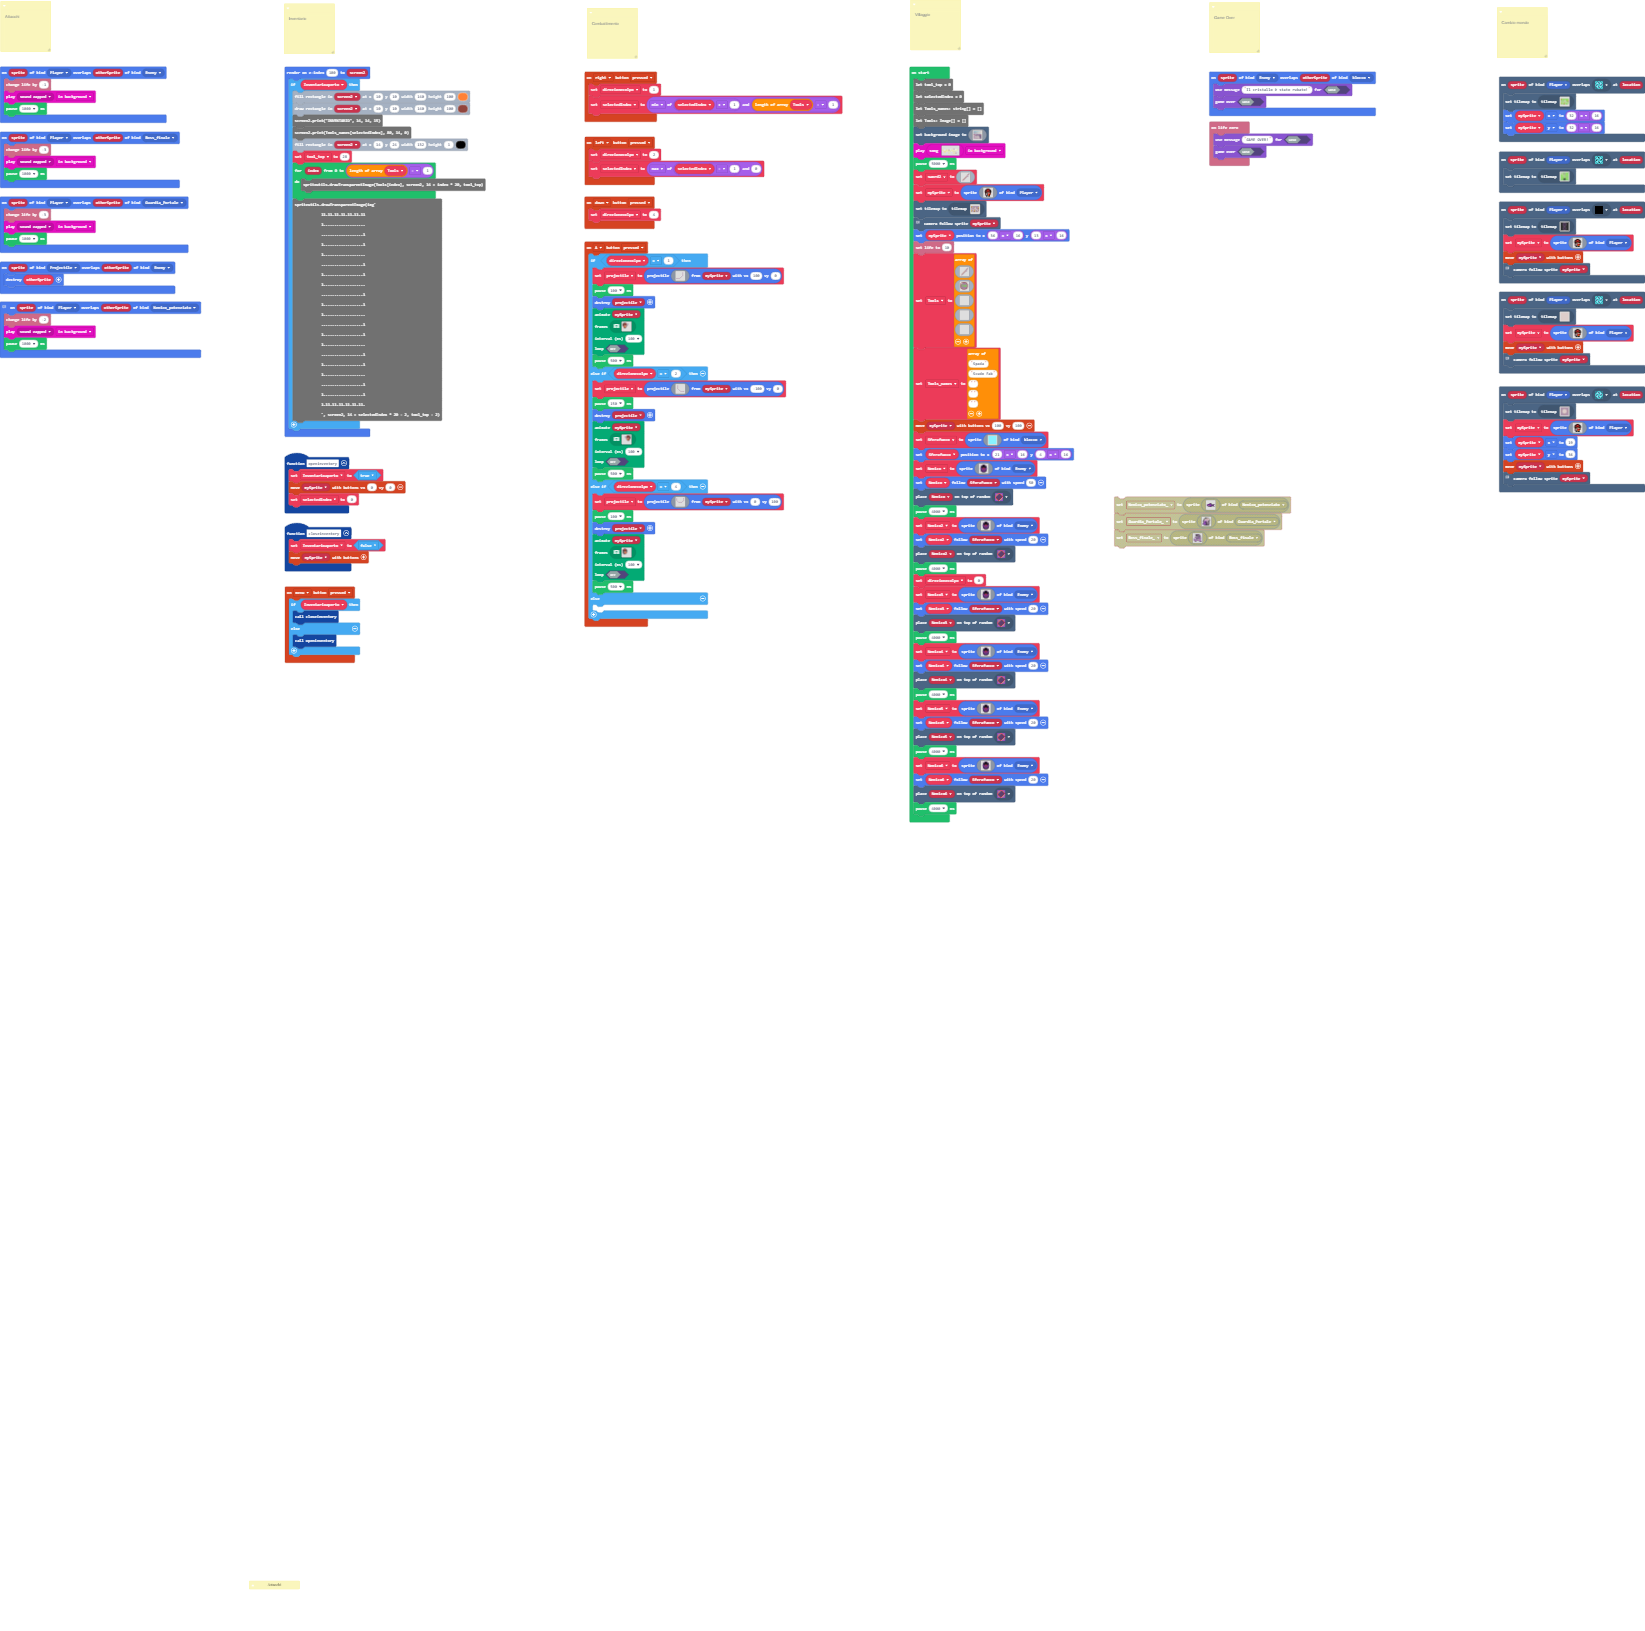
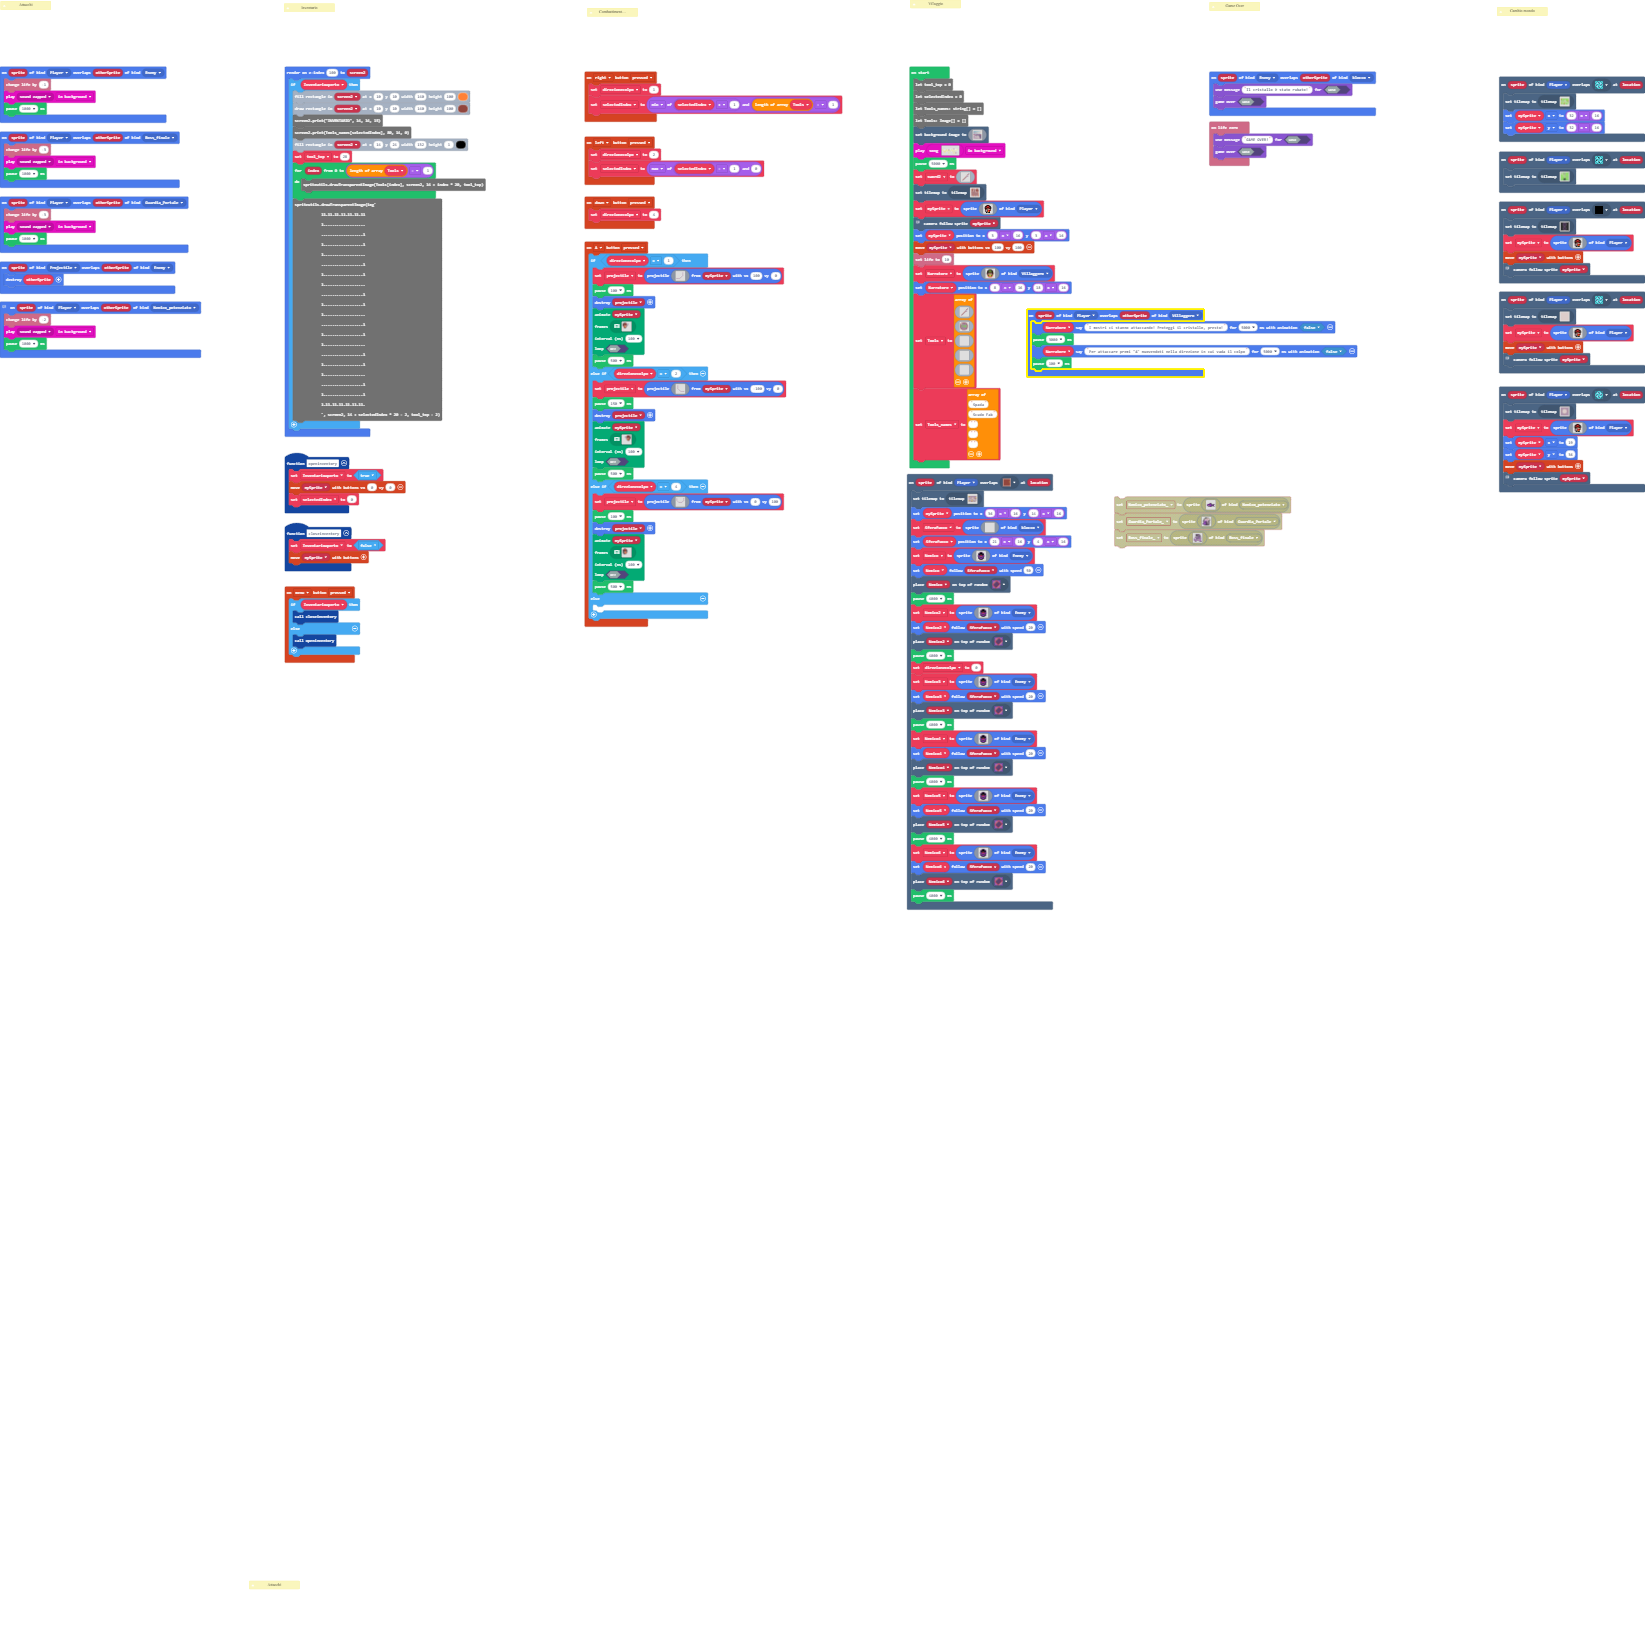
casa iniziale

diff --git a/tilemap.g.ts b/tilemap.g.ts
@@ -82,6 +82,24 @@ namespace myTiles {
     export const tile39 = image.ofBuffer(hex``);
     //% fixedInstance jres blockIdentity=images._tile
     export const tile40 = image.ofBuffer(hex``);
+    //% fixedInstance jres blockIdentity=images._tile
+    export const tile41 = image.ofBuffer(hex``);
+    //% fixedInstance jres blockIdentity=images._tile
+    export const tile42 = image.ofBuffer(hex``);
+    //% fixedInstance jres blockIdentity=images._tile
+    export const tile43 = image.ofBuffer(hex``);
+    //% fixedInstance jres blockIdentity=images._tile
+    export const tile44 = image.ofBuffer(hex``);
+    //% fixedInstance jres blockIdentity=images._tile
+    export const tile45 = image.ofBuffer(hex``);
+    //% fixedInstance jres blockIdentity=images._tile
+    export const tile46 = image.ofBuffer(hex``);
+    //% fixedInstance jres blockIdentity=images._tile
+    export const tile47 = image.ofBuffer(hex``);
+    //% fixedInstance jres blockIdentity=images._tile
+    export const tile48 = image.ofBuffer(hex``);
+    //% fixedInstance jres blockIdentity=images._tile
+    export const tile49 = image.ofBuffer(hex``);
 
     helpers._registerFactory("tilemap", function(name: string) {
         switch(helpers.stringTrim(name)) {
@@ -428,39 +446,6 @@ namespace myTiles {
 ..................2..2..................
 ..................2..2..................
 `, [myTiles.transparency16,sprites.vehicle.roadVertical,sprites.vehicle.roadHorizontal,sprites.dungeon.floorLight2,myTiles.tile35,myTiles.tile22,sprites.dungeon.floorMixed], TileScale.Sixteen);
-            case "level11":
[1 lines of base64/hex data omitted]
-........................................
-........................................
-........................................
-........................................
-........................................
-........................................
-........................................
-........................................
-........................................
-........................................
-........................................
-........................................
-........................................
-........................................
-........................................
-........................................
-........................................
-........................................
-........................................
-........................................
-........................................
-........................................
-........................................
-........................................
-........................................
-........................................
-........................................
-........................................
-........................................
-........................................
-`, [myTiles.transparency16], TileScale.Sixteen);
             case "Villaggio distrutto":
[1 lines of base64/hex data omitted]
 ........................................
@@ -570,6 +555,48 @@ namespace myTiles {
 . . . . . . . . . . . . . . . . 
 . . . . . . . . . . . . . . . . 
 `, [myTiles.transparency16], TileScale.Sixteen);
+            case "level18":
+            case "level18":return tiles.createTilemap(hex`1000100000000000000000000000000000000000000000000000000000000000000000000000000000000000000000000000000000000000000000000000000000000000000000000000000000000000000000000000000000000000000000000000000000000000000000000000000000000000000000000000000000000000000000000000000000000000000000000000000000000000000000000000000000000000000000000000000000000000000000000000000000000000000000000000000000000000000000000000000000000000000000000000000000000000000000000000000000000000000000000000000000000000000000000000000000000000`, img`
+. . . . . . . . . . . . . . . . 
+. . . . . . . . . . . . . . . . 
+. . . . . . . . . . . . . . . . 
+. . . . . . . . . . . . . . . . 
+. . . . . . . . . . . . . . . . 
+. . . . . . . . . . . . . . . . 
+. . . . . . . . . . . . . . . . 
+. . . . . . . . . . . . . . . . 
+. . . . . . . . . . . . . . . . 
+. . . . . . . . . . . . . . . . 
+. . . . . . . . . . . . . . . . 
+. . . . . . . . . . . . . . . . 
+. . . . . . . . . . . . . . . . 
+. . . . . . . . . . . . . . . . 
+. . . . . . . . . . . . . . . . 
+. . . . . . . . . . . . . . . . 
+`, [myTiles.transparency16], TileScale.Sixteen);
+            case "casa iniziale":
[1 lines of base64/hex data omitted]
+22222222222222222222
+22....2....2.......2
+22.........2......22
+2.....2....2......22
+2.....2............2
+2.....2....2.......2
+222.222....2.......2
+2..........2.......2
+2..........2222.2222
+2..................2
+2..................2
+2..................2
+2..................2
+2..................2
+2..................2
+2..................2
+2..................2
+2..................2
+2..................2
+2222222222.222222222
+`, [myTiles.transparency16,myTiles.tile36,myTiles.tile41,myTiles.tile42,sprites.builtin.brick,myTiles.tile14,myTiles.tile25,myTiles.tile43,myTiles.tile44,myTiles.tile45,myTiles.tile48,myTiles.tile49], TileScale.Sixteen);
         }
         return null;
     })
@@ -657,6 +684,24 @@ namespace myTiles {
             case "tile39":return tile39;
             case "myTile31":
             case "tile40":return tile40;
+            case "letto 1":
+            case "tile41":return tile41;
+            case "letto 2":
+            case "tile42":return tile42;
+            case "pavimento":
+            case "tile43":return tile43;
+            case "myTile33":
+            case "tile44":return tile44;
+            case "letto blu 1":
+            case "tile45":return tile45;
+            case "letto blu 2":
+            case "tile46":return tile46;
+            case "letto blu sopra":
+            case "tile47":return tile47;
+            case "myTile32":
+            case "tile48":return tile48;
+            case "myTile34":
+            case "tile49":return tile49;
         }
         return null;
     })

diff --git a/main.ts b/main.ts
@@ -3,6 +3,7 @@ namespace SpriteKind {
     export const Guardia_Portale = SpriteKind.create()
     export const Boss_finale = SpriteKind.create()
     export const blocco = SpriteKind.create()
+    export const Villaggero = SpriteKind.create()
 }
 /**
  * Attacchi
@@ -495,6 +496,12 @@ controller.A.onEvent(ControllerButtonEvent.Pressed, function () {
     	
     }
 })
+sprites.onOverlap(SpriteKind.Player, SpriteKind.Villaggero, function (sprite, otherSprite) {
+    Narratore.sayText("I mostri ci stanno attaccando! Proteggi il cristallo, presto!", 5000, false)
+    pause(3000)
+    Narratore.sayText("Per attaccare premi \"A\" muovendoti nella direzione in cui vada il colpo", 5000, false)
+    pause(100)
+})
 function closeinventory () {
     Inventarioaperto = false
     controller.moveSprite(mySprite)
@@ -516,6 +523,37 @@ sprites.onOverlap(SpriteKind.Player, SpriteKind.Guardia_Portale, function (sprit
     info.changeLifeBy(-3)
     music.play(music.melodyPlayable(music.zapped), music.PlaybackMode.InBackground)
     pause(1000)
+})
+scene.onOverlapTile(SpriteKind.Player, assets.tile`Porta casa`, function (sprite, location) {
+    tiles.setCurrentTilemap(tilemap`Villaggio distrutto`)
+    mySprite.setPosition(36 * 16, 14 * 16)
+    Sferafuoco = sprites.create(assets.image`sferapernemico`, SpriteKind.blocco)
+    Sferafuoco.setPosition(21 * 16, 4 * 16)
+    Nemico = sprites.create(assets.image`Nemico base`, SpriteKind.Enemy)
+    Nemico.follow(Sferafuoco, 50)
+    tiles.placeOnRandomTile(Nemico, assets.tile`Spawner nemici normali`)
+    pause(4000)
+    Nemico2 = sprites.create(assets.image`Nemico base`, SpriteKind.Enemy)
+    Nemico2.follow(Sferafuoco, 20)
+    tiles.placeOnRandomTile(Nemico2, assets.tile`Spawner nemici normali`)
+    pause(4000)
+    direzionecolpo = 0
+    Nemico3 = sprites.create(assets.image`Nemico base`, SpriteKind.Enemy)
+    Nemico3.follow(Sferafuoco, 20)
+    tiles.placeOnRandomTile(Nemico3, assets.tile`Spawner nemici normali`)
+    pause(4000)
+    Nemico4 = sprites.create(assets.image`Nemico base`, SpriteKind.Enemy)
+    Nemico4.follow(Sferafuoco, 20)
+    tiles.placeOnRandomTile(Nemico4, assets.tile`Spawner nemici normali`)
+    pause(4000)
+    Nemico5 = sprites.create(assets.image`Nemico base`, SpriteKind.Enemy)
+    Nemico5.follow(Sferafuoco, 20)
+    tiles.placeOnRandomTile(Nemico5, assets.tile`Spawner nemici normali`)
+    pause(4000)
+    Nemico6 = sprites.create(assets.image`Nemico base`, SpriteKind.Enemy)
+    Nemico6.follow(Sferafuoco, 20)
+    tiles.placeOnRandomTile(Nemico6, assets.tile`Spawner nemici normali`)
+    pause(4000)
 })
 scene.onOverlapTile(SpriteKind.Player, assets.tile`tel mappa centrale`, function (sprite, location) {
     tiles.setCurrentTilemap(tilemap`level2`)
@@ -632,9 +670,17 @@ sprites.onOverlap(SpriteKind.Player, SpriteKind.Enemy, function (sprite, otherSp
     music.play(music.melodyPlayable(music.zapped), music.PlaybackMode.InBackground)
     pause(1000)
 })
+let Nemico6: Sprite = null
+let Nemico5: Sprite = null
+let Nemico4: Sprite = null
+let Nemico3: Sprite = null
+let Nemico2: Sprite = null
+let Nemico: Sprite = null
+let Sferafuoco: Sprite = null
 let Inventarioaperto = false
 let projectile: Sprite = null
 let direzionecolpo = 0
+let Narratore: Sprite = null
 let mySprite: Sprite = null
 let tool_top = 0
 let selectedIndex = 0
@@ -848,6 +894,7 @@ let sword2 = img`
     . d b b . . . . . . . . . . . . 
     . d d . . . . . . . . . . . . . 
     `
+tiles.setCurrentTilemap(tilemap`casa iniziale`)
 mySprite = sprites.create(img`
     . . . . . . f f f f . . . . . . 
     . . . . f f f 2 2 f f f . . . . 
@@ -866,12 +913,14 @@ mySprite = sprites.create(img`
     . . . . f f f f f f f f . . . . 
     . . . . f f . . . f f f . . . . 
     `, SpriteKind.Player)
-tiles.setCurrentTilemap(tilemap`Villaggio distrutto`)
 // scene.setBackgroundImage()
 // spriteutils.moveTo(mySprite, spriteutils.pos(32 * 16, 32 * 16), 100, true)
 scene.cameraFollowSprite(mySprite)
-mySprite.setPosition(36 * 16, 13 * 16)
+mySprite.setPosition(3 * 16, 3 * 16)
+controller.moveSprite(mySprite, 100, 100)
 info.setLife(10)
+Narratore = sprites.create(assets.image`narratore`, SpriteKind.Villaggero)
+Narratore.setPosition(8 * 16, 18 * 16)
 Tools = [
 img`
     . . . . . . . . . . . . . . . . 
@@ -954,31 +1003,3 @@ Tools_names = [
 "",
 ""
 ]
-controller.moveSprite(mySprite, 100, 100)
-let Sferafuoco = sprites.create(assets.image`sferapernemico`, SpriteKind.blocco)
-Sferafuoco.setPosition(21 * 16, 4 * 16)
-let Nemico = sprites.create(assets.image`Nemico base`, SpriteKind.Enemy)
-Nemico.follow(Sferafuoco, 50)
-tiles.placeOnRandomTile(Nemico, assets.tile`Spawner nemici normali`)
-pause(4000)
-let Nemico2 = sprites.create(assets.image`Nemico base`, SpriteKind.Enemy)
-Nemico2.follow(Sferafuoco, 20)
-tiles.placeOnRandomTile(Nemico2, assets.tile`Spawner nemici normali`)
-pause(4000)
-direzionecolpo = 0
-let Nemico3 = sprites.create(assets.image`Nemico base`, SpriteKind.Enemy)
-Nemico3.follow(Sferafuoco, 20)
-tiles.placeOnRandomTile(Nemico3, assets.tile`Spawner nemici normali`)
-pause(4000)
-let Nemico4 = sprites.create(assets.image`Nemico base`, SpriteKind.Enemy)
-Nemico4.follow(Sferafuoco, 20)
-tiles.placeOnRandomTile(Nemico4, assets.tile`Spawner nemici normali`)
-pause(4000)
-let Nemico5 = sprites.create(assets.image`Nemico base`, SpriteKind.Enemy)
-Nemico5.follow(Sferafuoco, 20)
-tiles.placeOnRandomTile(Nemico5, assets.tile`Spawner nemici normali`)
-pause(4000)
-let Nemico6 = sprites.create(assets.image`Nemico base`, SpriteKind.Enemy)
-Nemico6.follow(Sferafuoco, 20)
-tiles.placeOnRandomTile(Nemico6, assets.tile`Spawner nemici normali`)
-pause(4000)

diff --git a/images.g.ts b/images.g.ts
@@ -320,22 +320,41 @@ ffbbbbbbbbbbbbbbfaaaaaaaaaaabbbbbbbbbbbbbbbbbbbbbbbbbbbbbaaaaaaaaaaaaf.......
 `;
             case "image12":
             case "sferapernemico":return img`
-9 9 9 9 9 9 9 9 9 9 9 9 9 9 9 9 
-9 9 9 9 9 9 9 9 9 9 9 9 9 9 9 9 
-9 9 9 9 9 9 9 9 9 9 9 9 9 9 9 9 
-9 9 9 9 9 9 9 9 9 9 9 9 9 9 9 9 
-9 9 9 9 9 9 9 9 9 9 9 9 9 9 9 9 
-9 9 9 9 9 9 9 9 9 9 9 9 9 9 9 9 
-9 9 9 9 9 9 9 9 9 9 9 9 9 9 9 9 
-9 9 9 9 9 9 9 9 9 9 9 9 9 9 9 9 
-9 9 9 9 9 9 9 9 9 9 9 9 9 9 9 9 
-9 9 9 9 9 9 9 9 9 9 9 9 9 9 9 9 
-9 9 9 9 9 9 9 9 9 9 9 9 9 9 9 9 
-9 9 9 9 9 9 9 9 9 9 9 9 9 9 9 9 
-9 9 9 9 9 9 9 9 9 9 9 9 9 9 9 9 
-9 9 9 9 9 9 9 9 9 9 9 9 9 9 9 9 
-9 9 9 9 9 9 9 9 9 9 9 9 9 9 9 9 
-9 9 9 9 9 9 9 9 9 9 9 9 9 9 9 9 
+. . . . . . . . . . . . . . . . 
+. . . . . . . . . . . . . . . . 
+. . . . . . . . . . . . . . . . 
+. . . . . . . . . . . . . . . . 
+. . . . . . . . . . . . . . . . 
+. . . . . . . . . . . . . . . . 
+. . . . . . . . . . . . . . . . 
+. . . . . . . . . . . . . . . . 
+. . . . . . . . . . . . . . . . 
+. . . . . . . . . . . . . . . . 
+. . . . . . . . . . . . . . . . 
+. . . . . . . . . . . . . . . . 
+. . . . . . . . . . . . . . . . 
+. . . . . . . . . . . . . . . . 
+. . . . . . . . . . . . . . . . 
+. . . . . . . . . . . . . . . . 
+`;
+            case "image13":
+            case "narratore":return img`
+. . . . . . f f f f . . . . . . 
+. . . . f f f 7 7 f f f . . . . 
+. . . f f f 7 7 7 7 f f f . . . 
+. . f f f e e e e e e f f f . . 
+. . f f e 7 7 7 7 7 7 e e f . . 
+. . f e 7 f f f f f f 7 e f . . 
+. . f f f f e e e e f f f f . . 
+. f f e f b f 4 4 f b f e f f . 
+. f e e 4 1 f d d f 1 4 e e f . 
+. . f e e d d d d d d e e f . . 
+. . . f e e 4 4 4 4 e e f . . . 
+. . e 4 f 7 7 7 7 7 7 f 4 e . . 
+. . 4 d f 7 7 7 7 7 7 f d 4 . . 
+. . 4 4 f 4 4 5 5 4 4 f 4 4 . . 
+. . . . . 2 2 2 2 2 2 . . . . . 
+. . . . . 2 2 . . 2 2 . . . . . 
 `;
         }
         return null;
